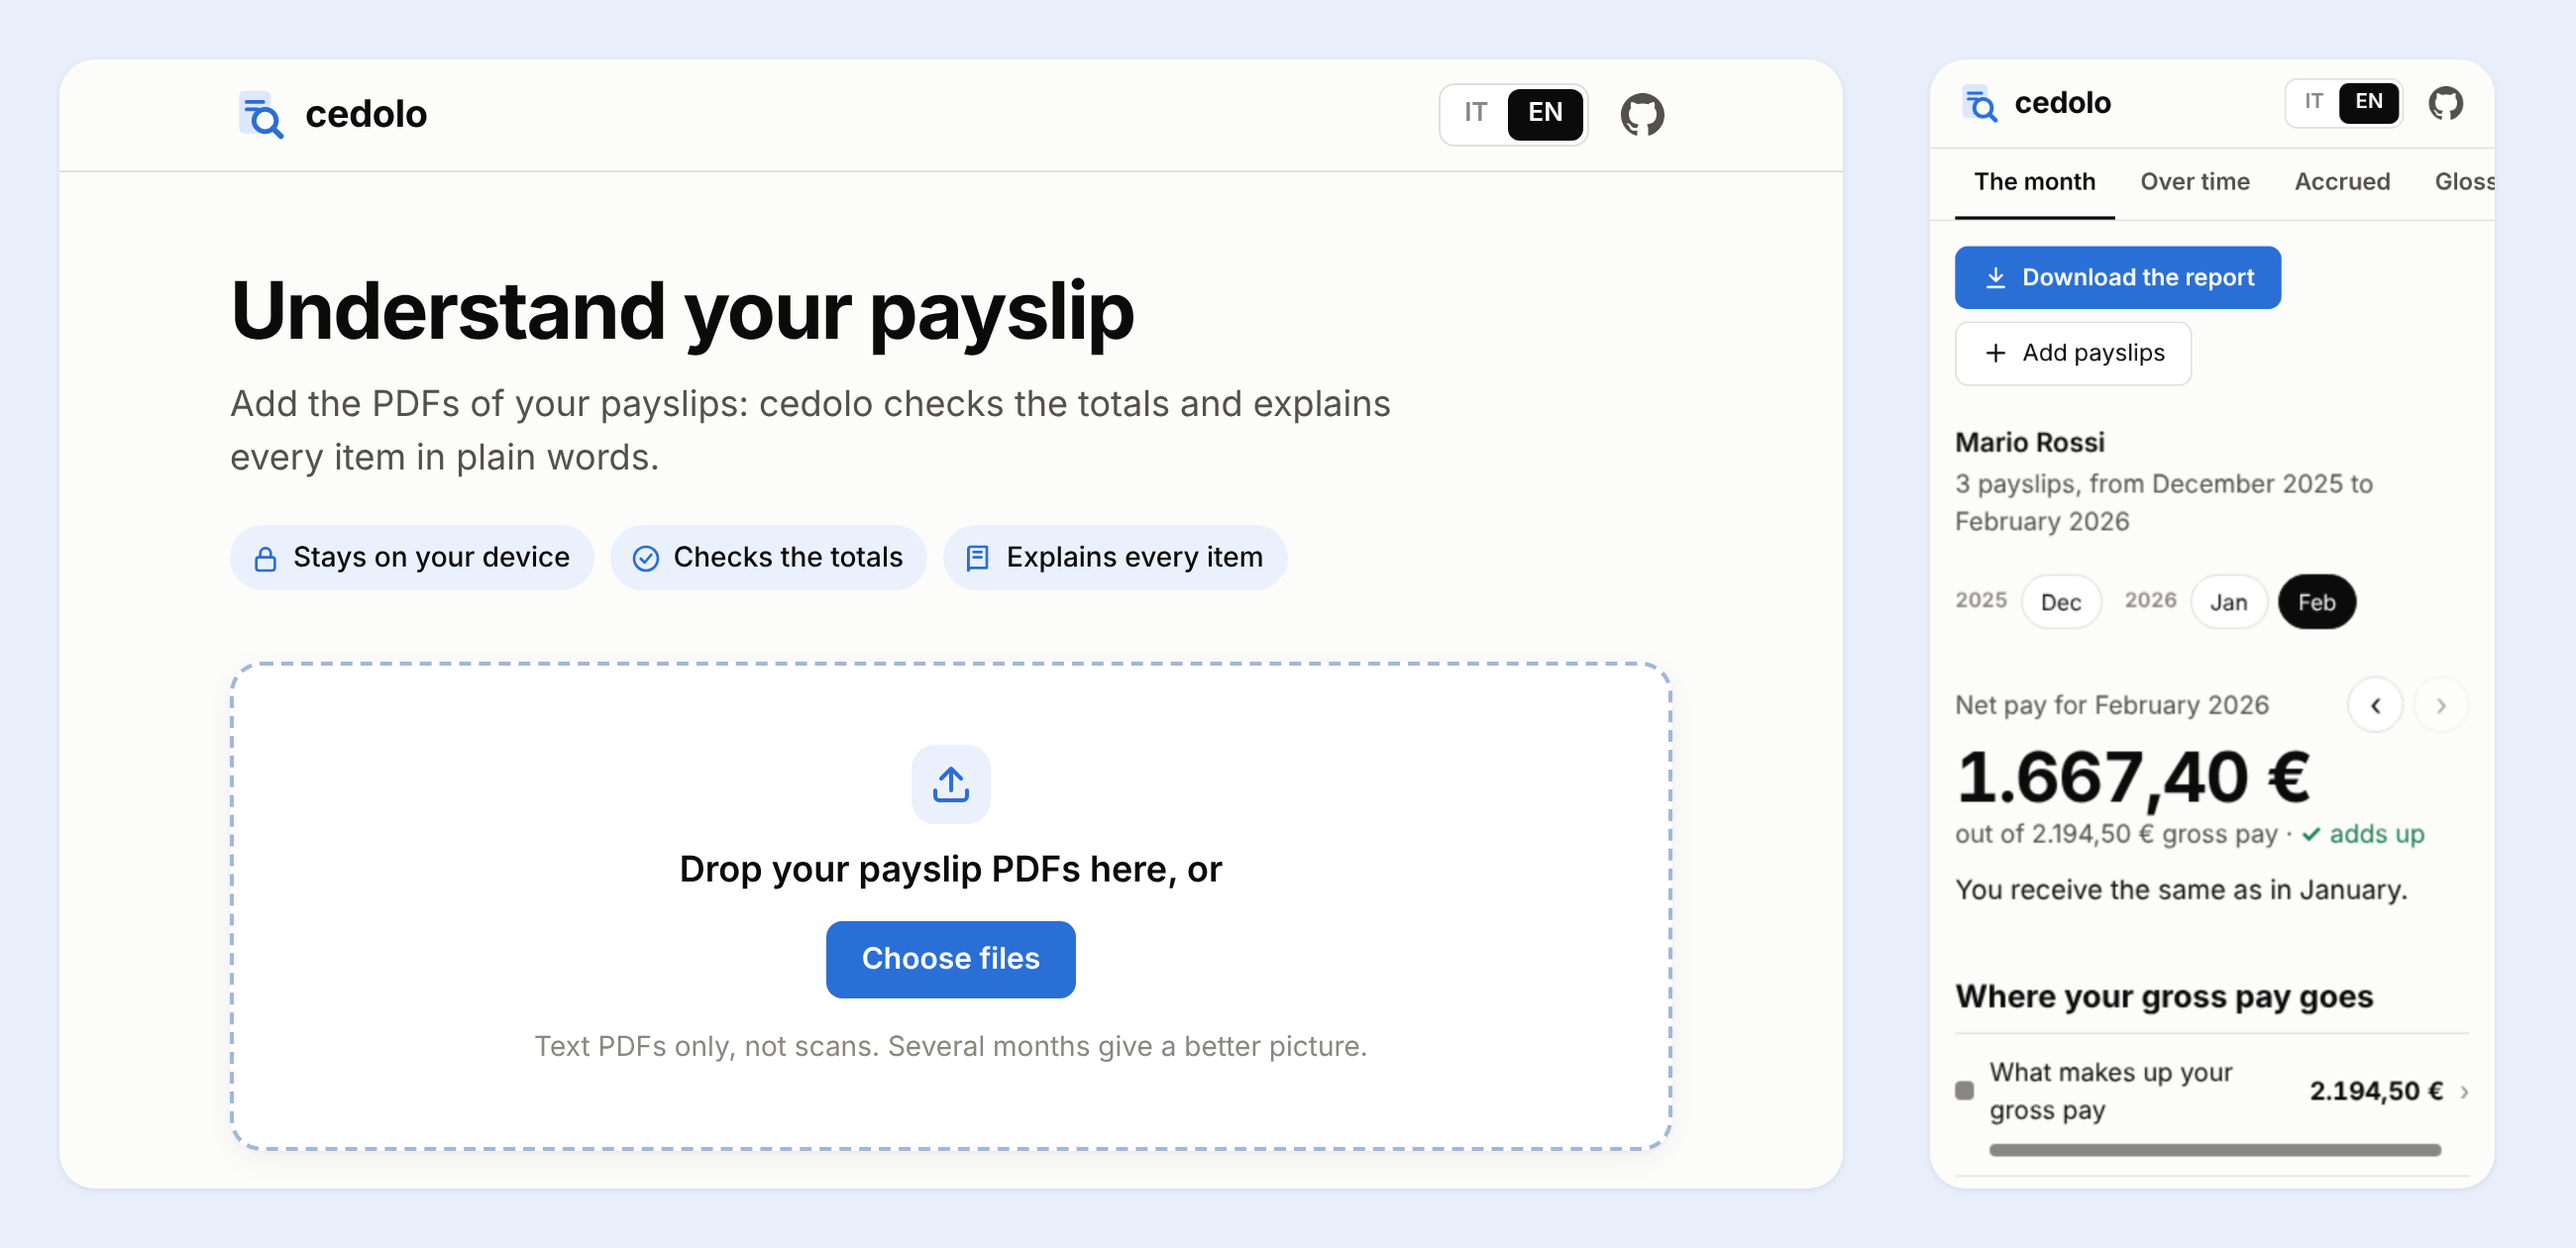
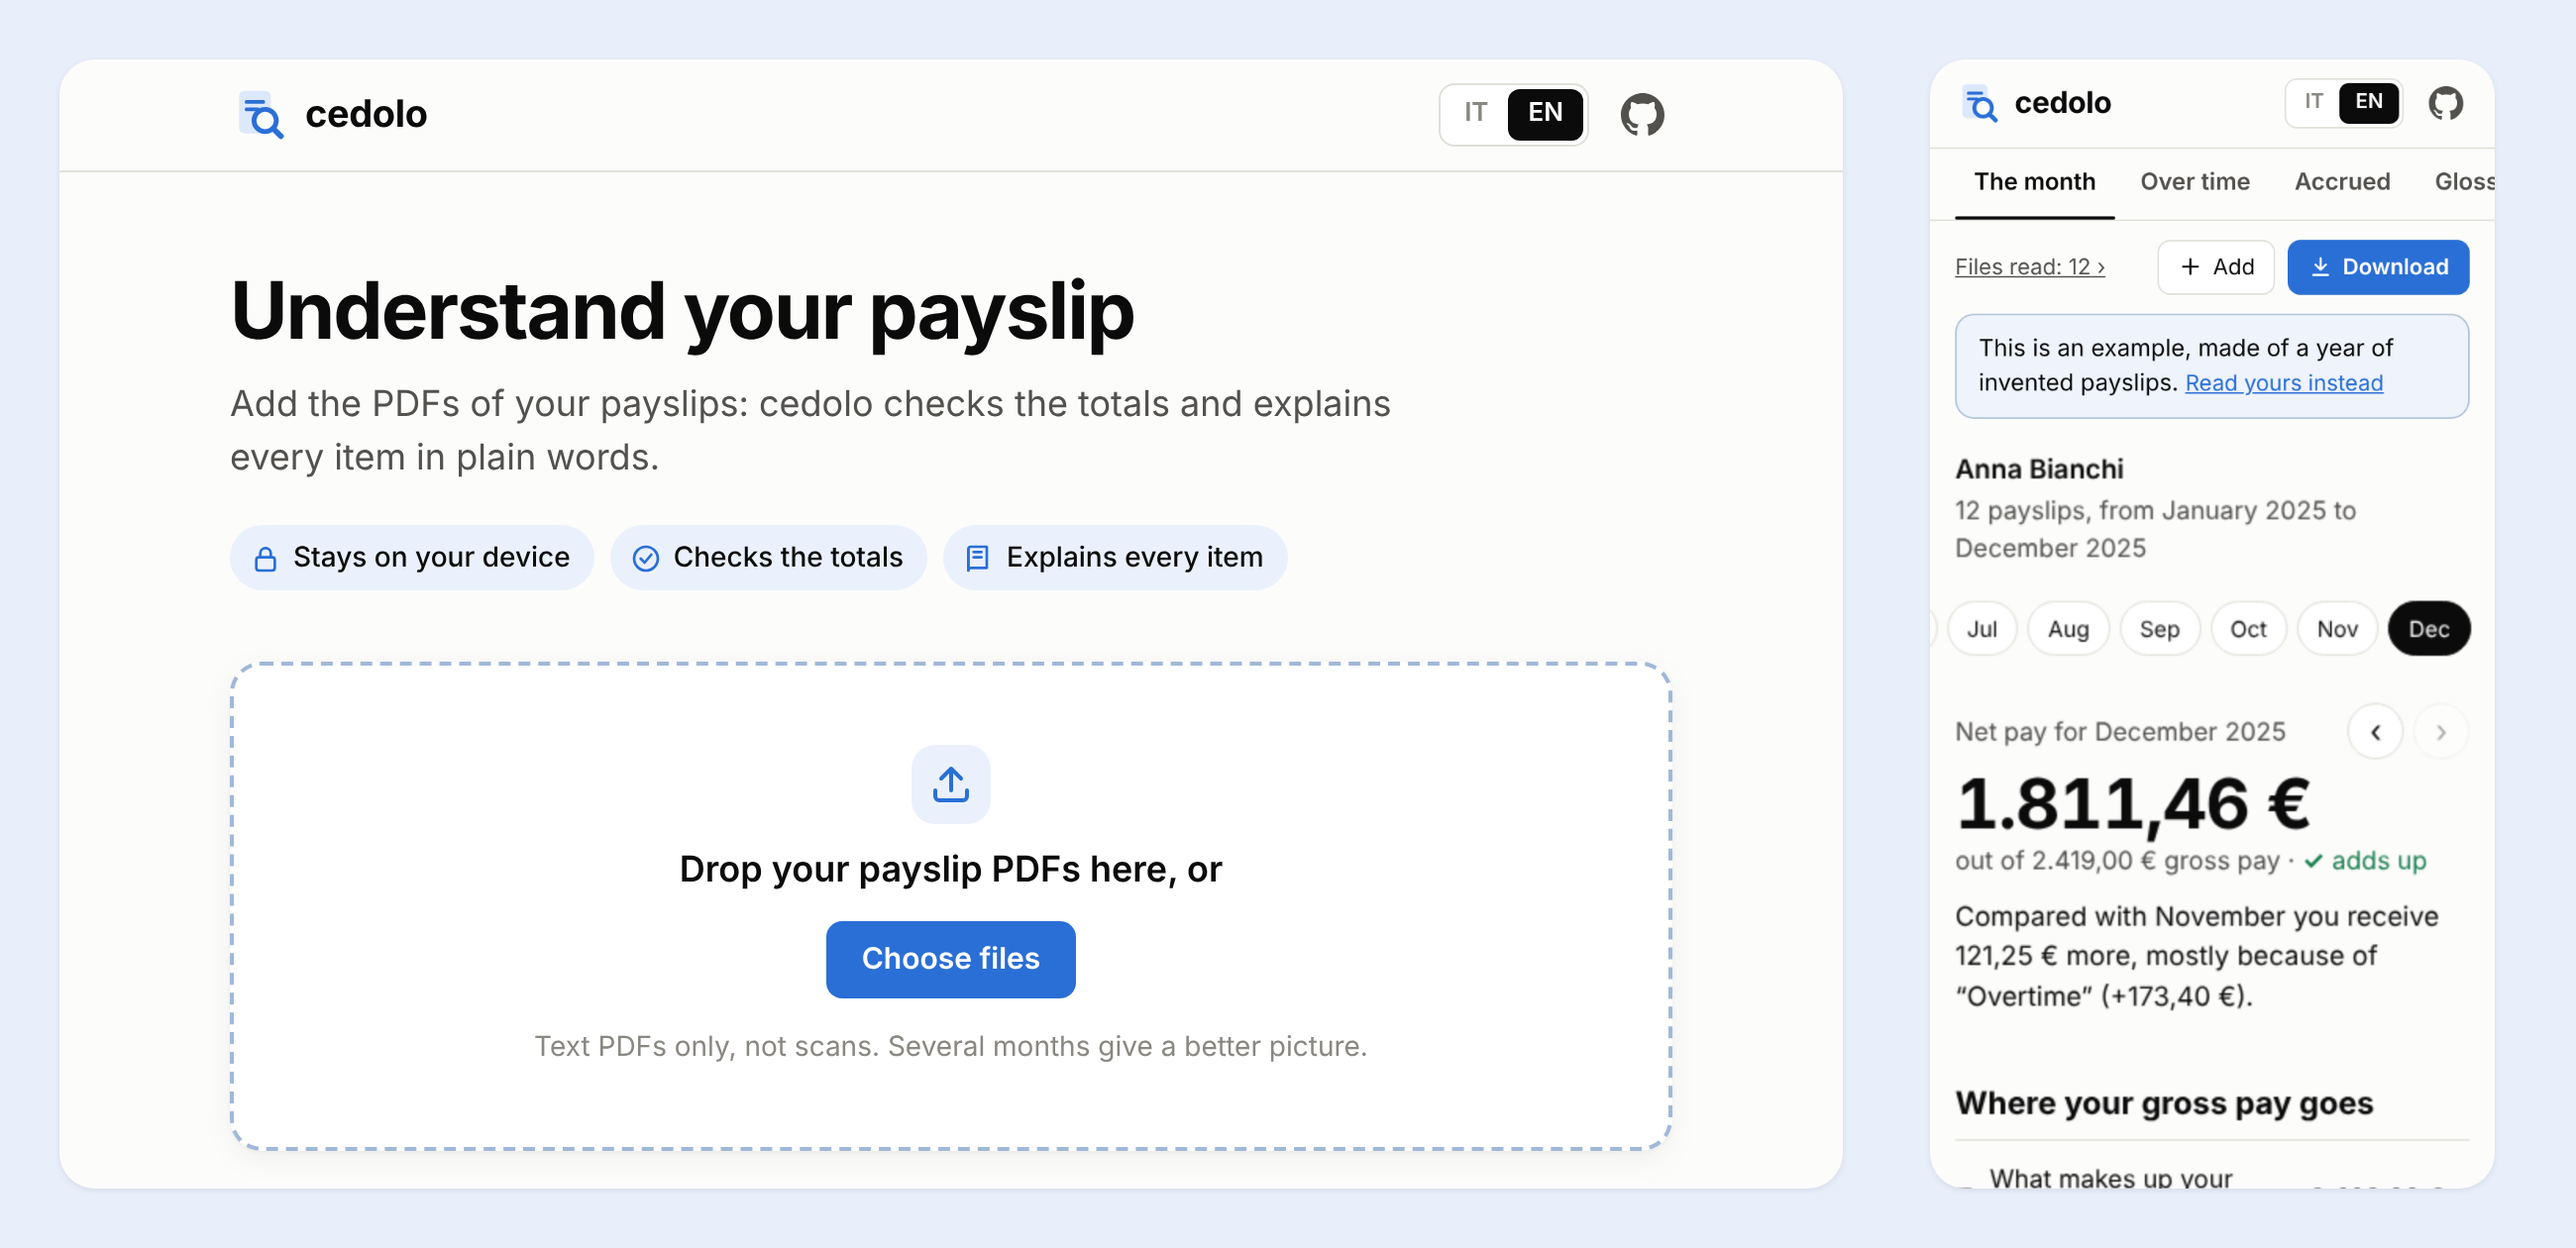
feat(report): say a leave balance did not move, without a flat line (#98)

Changed region(s): [[0.7477, 0.5571, 0.9658, 0.9595], [0.7477, 0.1857, 0.9658, 0.5262]]

diff --git a/internal/report/report.go b/internal/report/report.go
@@ -609,6 +609,9 @@ type LeaveChart struct {
 	Label string
 	Now   string // the latest balance, with its unit
 	SVG   template.HTML
+	// Steady says since when the balance has not moved, in place of a flat
+	// line: "unchanged since September 2025".
+	Steady string
 }
 
 // leaveCharts charts the remaining balance of each kind of leave the latest
@@ -628,13 +631,17 @@ func leaveCharts(l i18n.Lang, slips []payslip.Payslip) []LeaveChart {
 			continue
 		}
 		var labels []string
+		var first *payslip.Payslip
 		s := series{Name: lv.Label, Color: "var(--series-1)"}
-		for _, p := range slips {
+		for i, p := range slips {
 			if p.Kind != payslip.Monthly {
 				continue // an additional month repeats the balances of its month
 			}
 			for _, x := range p.Leave {
 				if x.Kind == lv.Kind && x.Unit == lv.Unit && x.Remaining != nil {
+					if first == nil {
+						first = &slips[i]
+					}
 					labels = append(labels, shortLabel(l, p))
 					s.Values = append(s.Values, *x.Remaining)
 					break
@@ -645,6 +652,15 @@ func leaveCharts(l i18n.Lang, slips []payslip.Payslip) []LeaveChart {
 			continue
 		}
 		value := func(v int64) string { return quantity(&v, lv.Unit, l) }
+		// A balance that never moved makes a flat line: say so instead.
+		if !slices.ContainsFunc(s.Values, func(v int64) bool { return v != s.Values[0] }) {
+			out = append(out, LeaveChart{
+				Label:  lv.Label,
+				Now:    value(*lv.Remaining),
+				Steady: i18n.T(l, "report.leave.steady", insights.Label(l, *first)),
+			})
+			continue
+		}
 		out = append(out, LeaveChart{
 			Label: lv.Label,
 			Now:   value(*lv.Remaining),

diff --git a/internal/report/report_test.go b/internal/report/report_test.go
@@ -691,3 +691,26 @@ func TestYearlyFigures(t *testing.T) {
 		}
 	}
 }
+
+// TestSteadyLeave says a balance that never moved in so many words, and
+// charts one that did.
+func TestSteadyLeave(t *testing.T) {
+	steady := Build(i18n.EN, months(t, 3), "test")
+	if len(steady.LeaveCharts) == 0 {
+		t.Fatal("no leave")
+	}
+	for _, c := range steady.LeaveCharts {
+		if c.SVG != "" || c.Steady != "unchanged since January 2026" {
+			t.Errorf("%s: steady %q, chart %t", c.Label, c.Steady, c.SVG != "")
+		}
+	}
+	var year []payslip.Payslip
+	for _, p := range synth.Year(2025) {
+		year = append(year, extract.Document(synth.Layout(p, synth.StyleClassic))...)
+	}
+	for _, c := range Build(i18n.EN, year, "test").LeaveCharts {
+		if c.SVG == "" || c.Steady != "" {
+			t.Errorf("%s moved over the year: steady %q, chart %t", c.Label, c.Steady, c.SVG != "")
+		}
+	}
+}

diff --git a/internal/i18n/i18n.go b/internal/i18n/i18n.go
@@ -176,6 +176,7 @@ var catalog = map[Lang]map[string]string{
 		"report.leave.before":         "before %s",
 		"report.leave.accrued":        "accrued %s",
 		"report.leave.used":           "used %s",
+		"report.leave.steady":         "unchanged since %s",
 		"report.prev":                 "Previous month",
 		"report.next":                 "Next month",
 		"report.group.reference":      "Glossary",
@@ -385,6 +386,7 @@ var catalog = map[Lang]map[string]string{
 		"report.leave.before":         "prima %s",
 		"report.leave.accrued":        "maturato %s",
 		"report.leave.used":           "goduto %s",
+		"report.leave.steady":         "invariato da %s",
 		"report.prev":                 "Mese precedente",
 		"report.next":                 "Mese successivo",
 		"report.group.reference":      "Glossario",

diff --git a/README.md b/README.md
@@ -22,7 +22,7 @@
   <a href="LICENSE"><img src="https://img.shields.io/badge/license-AGPL--3.0-blue" alt="License: AGPL-3.0"></a>
 </p>
 
-![The cedolo web app: the start page, and the report of three synthetic payslips on a phone](docs/images/screenshot.png)
+![The cedolo web app: the start page, and its example report of a year of invented payslips on a phone](docs/images/screenshot.png)
 
 ## What it does
 

diff --git a/CHANGELOG.md b/CHANGELOG.md
@@ -27,6 +27,8 @@ How to use this file:
 
 ### Changed
 
+- A leave balance that did not move over the payslips says so, "unchanged
+  since September 2025", instead of drawing a flat line.
 - The web app leaves more of the report in view: one small row over it
   holds the files read, to open them, and "Add" and "Download", where two
   large buttons and a link at the foot used to be. Tabs other than the
